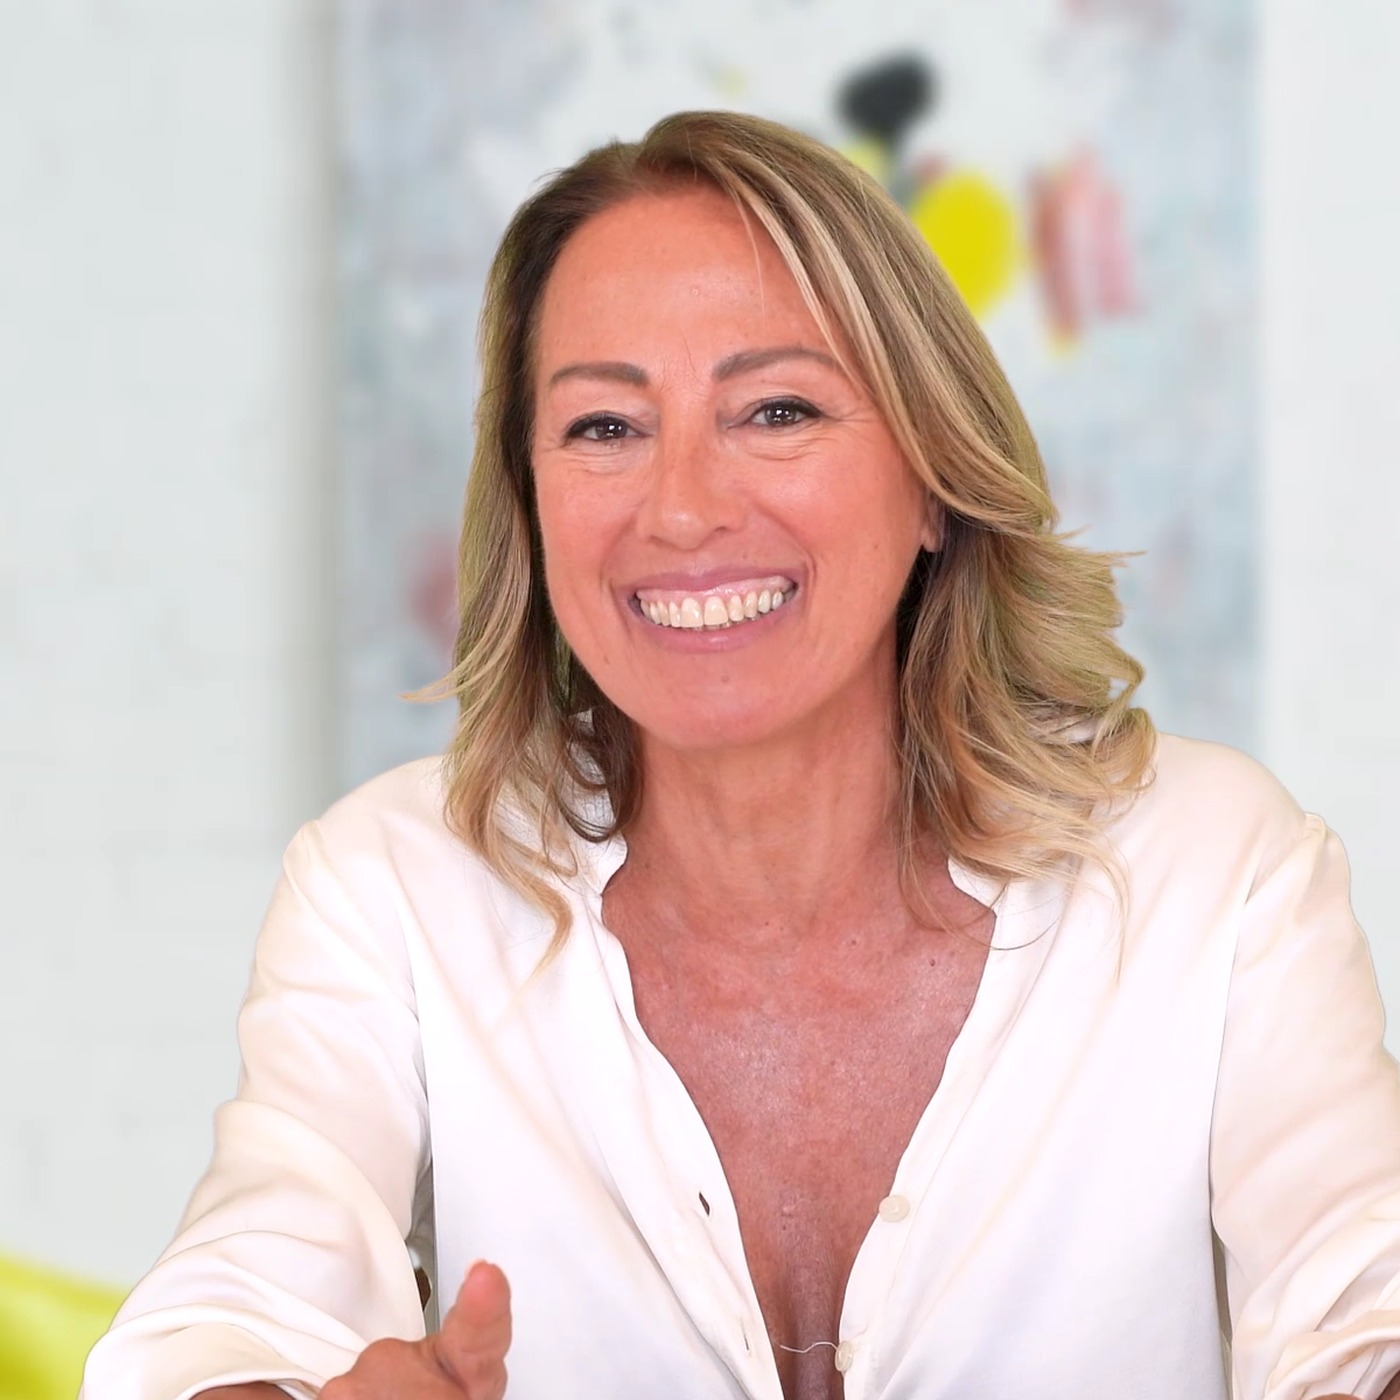
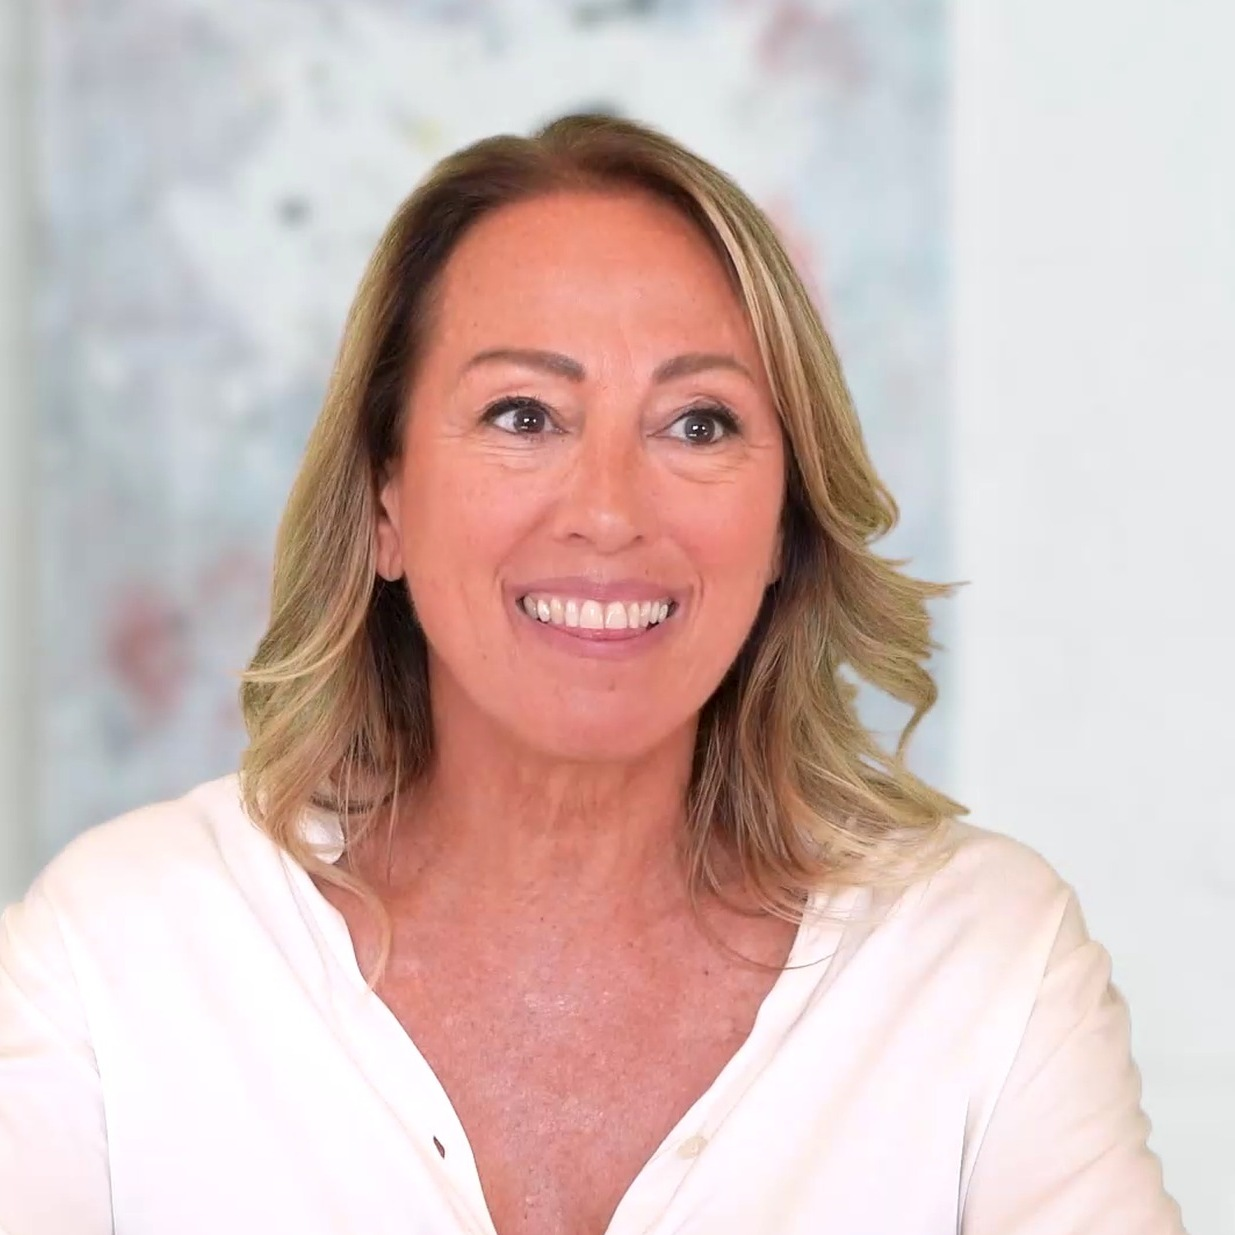
Aggiornamento bozza Il Rituale Sorridimi

diff --git a/content.html b/content.html
@@ -185,7 +185,7 @@ img{max-width:100%;height:auto}
 <div class="sorr-photo-wrap">
 <div class="sorr-frame">
 <figure class="sorr-photo sorr-photo--hero">
-<img src="assets/hero_martina_prodotto.jpg" alt="Martina insieme al prodotto Il Rituale Sorridimi" width="1600" height="2000" loading="eager">
+<img src="assets/hero_martina_prodotto.jpg" alt="Martina con il patch sulle labbra del Rituale Sorridimi" width="1080" height="1350" loading="eager">
 </figure>
 </div>
 </div>
@@ -340,8 +340,8 @@ img{max-width:100%;height:auto}
 </div>
 <div class="sorr-row-text">
 <h3 class="sorr-h3"><span class="sorr-num">1.</span> Il nuovo balsamo intensivo labbra Sorridimi di Trisoul Pro-Age</h3>
-<p>In un flacone da 15 ml, ricco di burri. Ha il gusto amarena: un piccolo piacere in più, ogni volta che lo usi.</p>
-<p>Una formula che contiene il 2% di un tripeptide, il Matrixyl synthe'6, in sinergia con burri biologici per proteggere le labbra e ceramidi NP, per far sì che il tripeptide possa penetrare in profondità, associato all'acido ialuronico per labbra morbide a lunga durata.</p>
+<p>Una formula ricca di attivi funzionali contiene il 2% di Matrixyl synthe'6, un tripeptide potente azione dermoristrutturante, in sinergia con burri biologici per proteggere le labbra e ceramidi NP per favorire la penetrazione in profondità del tripeptide, associata all'acido ialuronico per labbra morbide e a lunga durata.</p>
+<p>Il balsamo labbra Sorridimi ha il gusto di amarena, un piccolo piacere in più ogni volta che lo usi, e si trova in un comodo flacone airless da 15 ml.</p>
 </div>
 </div>
 <div class="sorr-row sorr-row--flip">
@@ -391,7 +391,7 @@ img{max-width:100%;height:auto}
 <div class="sorr-wrap sorr-why">
 <div class="sorr-why-img">
 <figure class="sorr-photo sorr-photo--sq">
-<img src="assets/martina_sorride.jpg" alt="Martina sorride" width="1400" height="1400" loading="lazy">
+<img src="assets/martina_sorride.jpg" alt="Martina sorride" width="1235" height="1235" loading="lazy">
 </figure>
 </div>
 <div class="sorr-why-text">
